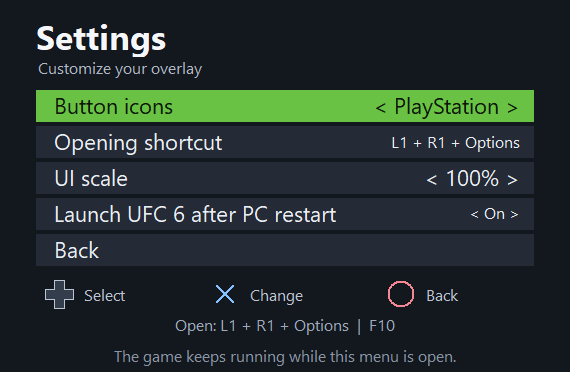
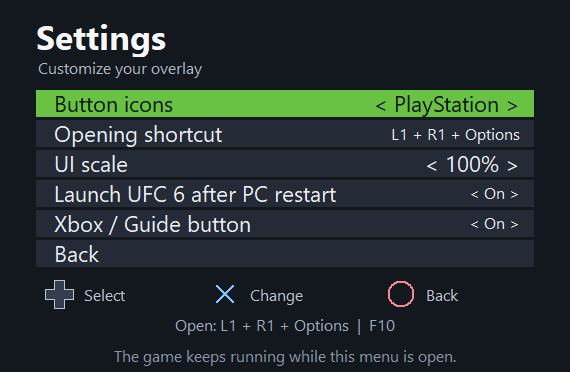
Add saved Xbox Guide button opening preference

Changed region(s): [[0.0596, 0.2366, 0.9544, 0.621], [0.8351, 0.5618, 0.9246, 0.621], [0.0895, 0.6505, 0.1789, 0.7097]]

diff --git a/src/quit_menu.c b/src/quit_menu.c
@@ -181,13 +181,14 @@ static void dpad_icon(HDC dc, int x, int y) {
     SelectObject(dc,old_pen); SelectObject(dc,old_brush); DeleteObject(pen); DeleteObject(brush);
 }
 static void save_settings(void) {
-    EnterCriticalSection(&lock); int ps=menu.playstation_icons,scale=menu_scale(&menu),auto_launch=menu_auto_launch(&menu);uint32_t chord=menu_shortcut(&menu); LeaveCriticalSection(&lock);
+    EnterCriticalSection(&lock); int ps=menu.playstation_icons,scale=menu_scale(&menu),auto_launch=menu_auto_launch(&menu),guide_enabled=menu_guide_enabled(&menu);uint32_t chord=menu_shortcut(&menu); LeaveCriticalSection(&lock);
     wchar_t value[24];swprintf(value,24,L"0x%08lx",(unsigned long)chord);
     BOOL saved=WritePrivateProfileStringW(L"Menu",L"ButtonIcons",ps?L"PlayStation":L"Xbox",settings_path);
     saved=WritePrivateProfileStringW(L"Menu",L"OpeningShortcut",value,settings_path)&&saved;
     swprintf(value,24,L"%d",scale);
     saved=WritePrivateProfileStringW(L"Menu",L"UIScale",value,settings_path)&&saved;
     saved=WritePrivateProfileStringW(L"Menu",L"AutoLaunchAfterRestart",auto_launch?L"1":L"0",settings_path)&&saved;
+    saved=WritePrivateProfileStringW(L"Menu",L"GuideButtonOpensMenu",guide_enabled?L"1":L"0",settings_path)&&saved;
     EnterCriticalSection(&lock); settings_save_failed=!saved; LeaveCriticalSection(&lock);
     log_line(saved ? "Overlay settings saved." : "Could not save overlay settings.");
 }
@@ -204,8 +205,8 @@ static void shortcut_label(uint32_t chord,int ps,wchar_t *out,size_t capacity) {
     }
 }
 static void row_geometry(int page,int index,int *top,int *height) {
-    *top=page==PAGE_MAIN?86+29*index+(index>=MAIN_REBOOT?10:0):page==PAGE_SETTINGS?90+36*index:100+56*index;
-    *height=page==PAGE_MAIN?27:page==PAGE_SETTINGS?32:50;
+    *top=page==PAGE_MAIN?86+29*index+(index>=MAIN_REBOOT?10:0):page==PAGE_SETTINGS?90+30*index:100+56*index;
+    *height=page==PAGE_MAIN?27:page==PAGE_SETTINGS?27:50;
 }
 static void draw_menu(HDC dc, RECT r) {
     HBRUSH bg = CreateSolidBrush(RGB(19, 23, 30));
@@ -222,7 +223,7 @@ static void draw_menu(HDC dc, RECT r) {
     RECT sub = {38, 57, r.right - 36, 84};
     text(dc,font_small,state.page==PAGE_SETTINGS?L"Customize your overlay":state.page==PAGE_RESTART?L"Close this session and relaunch through PORTHEON.":menu_power_page(&state)?(state.shutdown_countdown?L"You can still cancel before the countdown ends.":(state.page==PAGE_REBOOT?(menu_auto_launch(&state)?L"Game auto-launch: On. Change in Settings.":L"Game auto-launch: Off. Change in Settings."):L"Close the game and turn off this PC.")):L"What would you like to do?",sub,RGB(176,184,197),DT_LEFT);
     const wchar_t *main_labels[]={L"Resume",L"Take screenshot",L"Restart game",L"Settings",L"Quit game",L"Restart PC",L"Shut down PC"};
-    const wchar_t *setting_labels[]={L"Button icons",L"Opening shortcut",L"UI scale",L"Launch UFC 6 after PC restart",L"Back"};
+    const wchar_t *setting_labels[]={L"Button icons",L"Opening shortcut",L"UI scale",L"Launch UFC 6 after PC restart",L"Xbox / Guide button",L"Back"};
     const wchar_t *restart_labels[]={L"Cancel",L"Restart now"};
     const wchar_t *shutdown_labels[]={state.shutdown_countdown?L"Cancel":L"Cancel",state.page==PAGE_REBOOT?L"Hold to restart PC":L"Hold to shut down"};
     for(int i=0;i<menu_rows(&state);++i) {
@@ -231,7 +232,7 @@ static void draw_menu(HDC dc, RECT r) {
         HBRUSH fill=CreateSolidBrush(i==selection?RGB(106,194,68):RGB(36,43,54));
         FillRect(dc, &row, fill); DeleteObject(fill);
         COLORREF color=i == selection ? RGB(11,24,7) : RGB(234,238,244);
-        row.left+=18;row.top+=state.page==PAGE_MAIN?-2:state.page==PAGE_SETTINGS?0:9;
+        row.left+=18;row.top+=(state.page==PAGE_MAIN||state.page==PAGE_SETTINGS)?-2:9;
         text(dc,font_body,state.page==PAGE_MAIN?main_labels[i]:state.page==PAGE_SETTINGS?setting_labels[i]:menu_power_page(&state)?shutdown_labels[i]:restart_labels[i],row,color,DT_LEFT);
         if(menu_power_page(&state)&&i==1&&state.shutdown_holding){
             wchar_t progress[40];swprintf(progress,40,L"%.1f / 3 s",state.shutdown_progress/1000.0);
@@ -243,6 +244,10 @@ static void draw_menu(HDC dc, RECT r) {
             RECT value={350,row.top+4,r.right-50,row.bottom};
             const wchar_t *label=state.page==PAGE_MAIN?(menu_auto_launch(&state)?L"Auto-launch: On":L"Auto-launch: Off"):(menu_auto_launch(&state)?L"< On >":L"< Off >");
             text(dc,font_small,label,value,color,DT_RIGHT|DT_SINGLELINE);
+        }
+        if(state.page==PAGE_SETTINGS&&i==SETTING_GUIDE){
+            RECT value={350,row.top+4,r.right-50,row.bottom};
+            text(dc,font_small,menu_guide_enabled(&state)?L"< On >":L"< Off >",value,color,DT_RIGHT|DT_SINGLELINE);
         }
         if(state.page==PAGE_SETTINGS&&i==SETTING_ICONS) {
             RECT value={300,row.top,r.right-50,row.bottom};
@@ -272,7 +277,7 @@ static void draw_menu(HDC dc, RECT r) {
         dpad_icon(dc,44,y);
         RECT select={84,y+5,190,y+28};text(dc,font_small,L"Select",select,RGB(187,196,209),DT_LEFT);
         button_icon(dc,210,y,0,ps);
-        const wchar_t *confirm=state.page==PAGE_SETTINGS?(selection==SETTING_SHORTCUT?L"Record":(selection==SETTING_ICONS||selection==SETTING_AUTO_LAUNCH)?L"Change":selection==SETTING_SCALE?L"Reset":L"Confirm"):menu_power_page(&state)?(state.shutdown_countdown?L"Cancel":selection==1?L"Hold 3s":L"Confirm"):L"Confirm";
+        const wchar_t *confirm=state.page==PAGE_SETTINGS?(selection==SETTING_SHORTCUT?L"Record":(selection==SETTING_ICONS||selection==SETTING_AUTO_LAUNCH||selection==SETTING_GUIDE)?L"Change":selection==SETTING_SCALE?L"Reset":L"Confirm"):menu_power_page(&state)?(state.shutdown_countdown?L"Cancel":selection==1?L"Hold 3s":L"Confirm"):L"Confirm";
         RECT yes={250,y+5,367,y+28};text(dc,font_small,confirm,yes,RGB(187,196,209),DT_LEFT);
         button_icon(dc,386,y,1,ps);
         RECT back={426,y+5,530,y+28};text(dc,font_small,state.page==PAGE_MAIN?L"Resume":L"Back",back,RGB(187,196,209),DT_LEFT);
@@ -281,6 +286,7 @@ static void draw_menu(HDC dc, RECT r) {
             swprintf(line,130,L"Open: %ls  |  F10",chord);
             if(selection==SETTING_SCALE)wcscpy(line,L"Left/right: resize   |   Confirm: reset to 100%");
             if(selection==SETTING_AUTO_LAUNCH)wcscpy(line,L"Reopen UFC 6 after PC restart and Windows sign-in.");
+            if(selection==SETTING_GUIDE)wcscpy(line,L"Use the Xbox / Guide button to open or close this menu.");
             RECT shortcut={30,314,r.right-30,336};text(dc,font_small,line,shortcut,RGB(158,170,188),DT_CENTER|DT_SINGLELINE|DT_END_ELLIPSIS);
         }
     }
@@ -413,7 +419,8 @@ static void tick(void) {
     int active = foreground();
     int guide = guide_down();
     int f10 = (GetAsyncKeyState(VK_F10) & 0x8000) != 0;
-    if (active && ((guide && !guide_was_down) || (f10 && !f10_was_down))) toggle_menu();
+    EnterCriticalSection(&lock);int hotkey=menu_hotkey_pressed(&menu,guide,guide_was_down,f10,f10_was_down);LeaveCriticalSection(&lock);
+    if (active && hotkey) toggle_menu();
     guide_was_down = guide; f10_was_down = f10;
     EnterCriticalSection(&lock);
     uint64_t now = GetTickCount64();
@@ -490,6 +497,8 @@ static DWORD WINAPI worker(void *unused) {
     EnterCriticalSection(&lock);menu.ui_scale_percent=overlay_valid_scale(scale)?scale:MENU_SCALE_DEFAULT;LeaveCriticalSection(&lock);
     int auto_launch=(int)GetPrivateProfileIntW(L"Menu",L"AutoLaunchAfterRestart",1,settings_path);
     EnterCriticalSection(&lock);menu.disable_auto_launch=auto_launch==0;LeaveCriticalSection(&lock);
+    int guide_enabled=(int)GetPrivateProfileIntW(L"Menu",L"GuideButtonOpensMenu",1,settings_path);
+    EnterCriticalSection(&lock);menu.disable_guide=guide_enabled==0;LeaveCriticalSection(&lock);
     log_line("UFC6 quit menu loaded inside engine process.");
     if (!test_mode && !install_hooks()) return 0;
     while (!game_window) { EnumWindows(find_window, 0); Sleep(100); }
@@ -524,7 +533,7 @@ static DWORD WINAPI worker(void *unused) {
                 ShowWindow(overlay, SW_HIDE); log_line("Quit selected: posting WM_CLOSE to game window.");
                 PostMessageW(game_window, WM_CLOSE, 0, 0);
             }
-            else if(msg.wParam==MENU_STYLE_CHANGED||msg.wParam==MENU_SHORTCUT_CHANGED||msg.wParam==MENU_SCALE_CHANGED||msg.wParam==MENU_AUTO_LAUNCH_CHANGED)save_settings();
+            else if(msg.wParam==MENU_STYLE_CHANGED||msg.wParam==MENU_SHORTCUT_CHANGED||msg.wParam==MENU_SCALE_CHANGED||msg.wParam==MENU_AUTO_LAUNCH_CHANGED||msg.wParam==MENU_GUIDE_CHANGED)save_settings();
             else if(msg.wParam==MENU_SCREENSHOT)request_screenshot();
             else if(msg.wParam==MENU_RESTART) {
                 ShowWindow(overlay,SW_HIDE);
@@ -580,6 +589,7 @@ __declspec(dllexport) int MenuTestSnapshot(void) {
 __declspec(dllexport) uint32_t MenuTestShortcut(void){EnterCriticalSection(&lock);uint32_t result=menu_shortcut(&menu);LeaveCriticalSection(&lock);return result;}
 __declspec(dllexport) void MenuTestScreenshot(void){request_screenshot();}
 __declspec(dllexport) int MenuTestShutdownRemaining(void){EnterCriticalSection(&lock);int seconds=menu.shutdown_countdown?menu.shutdown_seconds:0;LeaveCriticalSection(&lock);return seconds;}
+__declspec(dllexport) int MenuTestGuideEnabled(void){EnterCriticalSection(&lock);int value=menu_guide_enabled(&menu);LeaveCriticalSection(&lock);return value;}
 __declspec(dllexport) int MenuTestAutoLaunch(void){EnterCriticalSection(&lock);int value=menu_auto_launch(&menu);LeaveCriticalSection(&lock);return value;}
 __declspec(dllexport) int MenuTestScale(void){EnterCriticalSection(&lock);int scale=menu_scale(&menu);LeaveCriticalSection(&lock);return scale;}
 #endif

diff --git a/src/menu_state.h b/src/menu_state.h
@@ -11,9 +11,9 @@ enum {
 };
 enum { PAGE_MAIN, PAGE_SETTINGS, PAGE_RESTART, PAGE_SHUTDOWN, PAGE_REBOOT };
 enum { MAIN_RESUME, MAIN_SCREENSHOT, MAIN_RESTART, MAIN_SETTINGS, MAIN_QUIT, MAIN_REBOOT, MAIN_SHUTDOWN, MAIN_COUNT };
-enum { SETTING_ICONS, SETTING_SHORTCUT, SETTING_SCALE, SETTING_AUTO_LAUNCH, SETTING_BACK, SETTING_COUNT };
+enum { SETTING_ICONS, SETTING_SHORTCUT, SETTING_SCALE, SETTING_AUTO_LAUNCH, SETTING_GUIDE, SETTING_BACK, SETTING_COUNT };
 enum { MENU_NONE, MENU_OPEN, MENU_RESUME, MENU_QUIT, MENU_CHANGED,
-       MENU_STYLE_CHANGED, MENU_SHORTCUT_CHANGED, MENU_SCREENSHOT, MENU_RESTART, MENU_SHUTDOWN, MENU_SCALE_CHANGED, MENU_REBOOT, MENU_AUTO_LAUNCH_CHANGED };
+       MENU_STYLE_CHANGED, MENU_SHORTCUT_CHANGED, MENU_SCREENSHOT, MENU_RESTART, MENU_SHUTDOWN, MENU_SCALE_CHANGED, MENU_REBOOT, MENU_AUTO_LAUNCH_CHANGED, MENU_GUIDE_CHANGED };
 
 typedef struct {
     int visible,selection,armed,chord_latched,draining;
@@ -25,11 +25,16 @@ typedef struct {
     uint64_t shutdown_hold_since,shutdown_countdown_since;
     int ui_scale_percent;
     int disable_auto_launch;
+    int disable_guide;
 } MenuState;
 
 static int menu_power_page(const MenuState *s){return s->page==PAGE_SHUTDOWN||s->page==PAGE_REBOOT;}
 static int menu_power_selection(const MenuState *s){return s->page==PAGE_REBOOT?MAIN_REBOOT:MAIN_SHUTDOWN;}
 static int menu_auto_launch(const MenuState *s){return !s->disable_auto_launch;}
+static int menu_guide_enabled(const MenuState *s){return !s->disable_guide;}
+static int menu_hotkey_pressed(const MenuState *s,int guide,int was_guide,int f10,int was_f10){
+    return (menu_guide_enabled(s)&&guide&&!was_guide)||(f10&&!was_f10);
+}
 
 static unsigned menu_button_count(uint32_t mask) {
     unsigned count=0;for(;mask;mask&=mask-1)++count;return count;
@@ -123,6 +128,9 @@ static int menu_button(MenuState *s,uint32_t button,int down) {
         return MENU_CHANGED;
     }
     if(s->page==PAGE_SETTINGS) {
+        if(s->selection==SETTING_GUIDE&&(button==PAD_LEFT||button==PAD_RIGHT||button==PAD_A)){
+            s->disable_guide=!s->disable_guide;return MENU_GUIDE_CHANGED;
+        }
         if(s->selection==SETTING_AUTO_LAUNCH&&(button==PAD_LEFT||button==PAD_RIGHT||button==PAD_A)){
             s->disable_auto_launch=!s->disable_auto_launch;return MENU_AUTO_LAUNCH_CHANGED;
         }

diff --git a/tests/icon_preview.py b/tests/icon_preview.py
@@ -15,6 +15,8 @@ parser.add_argument("--reboot",action="store_true")
 parser.add_argument("--auto-launch",action="store_true")
 parser.add_argument("--reload-auto-off",action="store_true")
 parser.add_argument("--scale",action="store_true")
+parser.add_argument("--guide",action="store_true")
+parser.add_argument("--reload-guide-off",action="store_true")
 args=parser.parse_args()
 folder=args.folder.resolve()
 if args.reset:
@@ -78,7 +80,21 @@ try:
     else:
         dll.MenuTestToggle();pump(.3)
     assert dll.MenuTestSnapshot()&0x100
-    if args.auto_launch or args.reload_auto_off:
+    if args.guide or args.reload_guide_off:
+        assert dll.MenuTestGuideEnabled()==(0 if args.reload_guide_off else 1)
+        for _ in range(3):press(0x40)
+        press(0x4000)
+        for _ in range(4):press(0x40)
+        assert dll.MenuTestSnapshot()&0xf==4
+        render("guide-off-reloaded.png" if args.reload_guide_off else "guide-on.png")
+        if not args.reload_guide_off:
+            press(0x4000);assert dll.MenuTestGuideEnabled()==0
+            render("guide-off.png")
+            press(0x80);assert dll.MenuTestGuideEnabled()==1
+            press(0x20);assert dll.MenuTestGuideEnabled()==0
+            assert "GuideButtonOpensMenu=0" in (folder/"ufc6-quit-menu.test.ini").read_text()
+        print("PASS: Guide setting defaults On, toggles and saves Off." if not args.reload_guide_off else "PASS: fresh process loaded Guide Off and rendered the saved setting.")
+    elif args.auto_launch or args.reload_auto_off:
         assert dll.MenuTestAutoLaunch()==(0 if args.reload_auto_off else 1)
         render("main-auto-off.png" if args.reload_auto_off else "main-auto-on.png")
         if not args.reload_auto_off:

diff --git a/tests/menu_state_test.c b/tests/menu_state_test.c
@@ -126,6 +126,21 @@ int main(void) {
         int aspect=(int)(width*372)-(int)(height*570);assert(aspect>=-1140&&aspect<=1140);
     }
     overlay_extent(300,32,32,&width,&height);assert(!width&&!height);
-    puts("PASS: menu safeguards, UI scaling bounds/reset/persistence, and fitting from 320x240 to 4K.");
+    s=(MenuState){.visible=1,.armed=1,.page=PAGE_SETTINGS,.selection=SETTING_GUIDE};
+    assert(menu_guide_enabled(&s));
+    assert(menu_hotkey_pressed(&s,1,0,0,0));
+    assert(!menu_hotkey_pressed(&s,1,1,0,0));
+    assert(menu_button(&s,PAD_A,1)==MENU_GUIDE_CHANGED&&!menu_guide_enabled(&s));
+    assert(!menu_hotkey_pressed(&s,1,0,0,0));
+    assert(menu_hotkey_pressed(&s,1,0,1,0)); /* F10 remains available with Guide off. */
+    assert(!menu_hotkey_pressed(&s,0,0,1,1));
+    assert(menu_button(&s,PAD_LEFT,1)==MENU_GUIDE_CHANGED&&menu_guide_enabled(&s));
+    assert(!menu_hotkey_pressed(&s,1,1,0,0)); /* Enabling while held requires a new press. */
+    assert(menu_hotkey_pressed(&s,1,0,0,0));
+    assert(menu_button(&s,PAD_RIGHT,1)==MENU_GUIDE_CHANGED&&!menu_guide_enabled(&s));
+    menu_close(&s,MENU_RESUME);menu_show(&s);assert(!menu_guide_enabled(&s));
+    s=(MenuState){.disable_guide=1};
+    menu_tick(&s,OPEN_CHORD,1000,1);assert(menu_tick(&s,OPEN_CHORD,1800,1)==MENU_OPEN);
+    puts("PASS: menu safeguards, UI scaling, Guide default/toggle/edge behavior and independent F10/chord access.");
     return 0;
 }

diff --git a/installer/SelfTests.cs b/installer/SelfTests.cs
@@ -23,7 +23,7 @@ namespace UFC6OverlaySetup {
                 Assert(Manager.Normalize(Directory.GetParent(folder).FullName) == folder,"Game root must resolve to bin.");
                 Assert(manager.Inspect(folder).Supported,"Fixture engine must be supported.");
                 string ini = Path.Combine(folder,"ufc6-quit-menu.ini"), screenshot = Path.Combine(folder,"existing-screenshot.png");
-                File.WriteAllText(ini,"[Menu]\nUIScale=175\nAutoLaunchAfterRestart=0\n"); File.WriteAllBytes(screenshot,Bytes("existing image"));
+                File.WriteAllText(ini,"[Menu]\nUIScale=175\nAutoLaunchAfterRestart=0\nGuideButtonOpensMenu=0\n"); File.WriteAllBytes(screenshot,Bytes("existing image"));
                 string settings = File.ReadAllText(ini);
                 manager.Apply(folder,false); Assert(manager.Inspect(folder).Current == 4,"Installation must match every release hash.");
                 manager.Apply(folder,false); Assert(!Directory.GetFiles(folder,"*.bak").Any(),"Idempotent install must not create backups.");

diff --git a/tests/test_installer.py b/tests/test_installer.py
@@ -133,7 +133,7 @@ class InstallerTests(unittest.TestCase):
 
     def test_settings_survive_install_and_remove(self):
         settings=self.bin/"ufc6-quit-menu.ini"
-        contents=b"[Menu]\nButtonIcons=PlayStation\nOpeningShortcut=0x6\nUIScale=175\nAutoLaunchAfterRestart=0\n"
+        contents=b"[Menu]\nButtonIcons=PlayStation\nOpeningShortcut=0x6\nUIScale=175\nAutoLaunchAfterRestart=0\nGuideButtonOpensMenu=0\n"
         settings.write_bytes(contents)
         self.run_action("install");self.run_action("remove")
         self.assertEqual(settings.read_bytes(),contents)

diff --git a/installer/AssemblyInfo.cs b/installer/AssemblyInfo.cs
@@ -3,5 +3,5 @@ using System.Reflection;
 [assembly: AssemblyTitle("UFC 6 Actions Overlay Setup")]
 [assembly: AssemblyProduct("UFC 6 Actions Overlay")]
 [assembly: AssemblyDescription("Install, update, or remove the UFC 6 Actions Overlay for the supported PORTHEON engine.")]
-[assembly: AssemblyVersion("0.8.2.0")]
-[assembly: AssemblyFileVersion("0.8.2.0")]
+[assembly: AssemblyVersion("0.8.3.0")]
+[assembly: AssemblyFileVersion("0.8.3.0")]

diff --git a/README.md b/README.md
@@ -48,7 +48,7 @@ The two game-background images are real game-window captures. The isolated page 
 - Default opening shortcut: hold **LB + RB + Menu/Start** for **0.8 seconds**, then release. On PlayStation this is **L1 + R1 + Options**.
 - **D-pad up/down** selects; **A / cross** confirms; **B / circle** goes back. Back resumes the game from the main menu.
 - **F10** always opens or closes the overlay, including while recording a new shortcut.
-- The Xbox/Guide button is also attempted through an optional XInput extension. Windows/Steam and controller drivers may intercept it; no system settings are changed.
+- The Xbox/Guide button opens or closes the overlay by default. Disable it under **Settings → Xbox / Guide button** if you use that button for something else. Windows/Steam and controller drivers may intercept it; no system settings are changed.
 
 Select **Settings** to open the second settings box:
 
@@ -56,6 +56,7 @@ Select **Settings** to open the second settings box:
 - **Opening shortcut:** confirm starts recording. Release the confirmation button, hold a combination of **2–4 digital buttons** for about half a second, then release to save it. Supported buttons are shoulders, stick clicks, D-pad, face buttons, and Menu/Options. Analog triggers and Guide are not recorded. B/circle alone cancels recording; F10 closes the overlay without changing the shortcut.
 - **UI scale:** left/right changes the whole overlay from **50% to 300%**, in **25% steps**. Confirm resets it to **100%**. The overlay stays centred and automatically shrinks to fit smaller game windows with a margin.
 - **Launch UFC 6 after PC restart:** On by default. Confirm or left/right toggles whether Restart PC reopens UFC 6 at your next Windows sign-in. The Restart PC row and its confirmation show the current On/Off status; the confirmation also points to Settings.
+- **Xbox / Guide button:** On by default. Confirm or left/right toggles opening/closing this overlay with Guide. The controller shortcut and F10 stay available when Off. The preference saves automatically; enabling it while Guide is already held requires releasing and pressing again.
 - **Back:** returns to the main menu.
 
 Preferences save automatically to `bin/ufc6-quit-menu.ini` and are preserved when upgrading. A custom shortcut uses the same 0.8-second hold time. The INI can also be edited while the game is closed:
@@ -66,6 +67,7 @@ ButtonIcons=PlayStation
 OpeningShortcut=0x00000c08
 UIScale=100
 AutoLaunchAfterRestart=1
+GuideButtonOpensMenu=1
 ```
 
 `Xbox` is the other icon style. The hexadecimal value above is the default shoulder/Menu combination; use the recorder to choose a different combination.
@@ -106,7 +108,7 @@ Verification uses the test helper with power APIs compiled out and a file in pla
 
 ## Install, upgrade, and remove
 
-Download **`UFC6-Actions-Overlay-Setup-0.8.2.exe`** and double-click it. The setup EXE contains all overlay components; it can run by itself without extracting the source ZIP, installing Python, or compiling anything. It uses the Windows .NET Framework 4.x already present on standard Windows 10/11 installations.
+Download **`UFC6-Actions-Overlay-Setup-0.8.3.exe`** and double-click it. The setup EXE contains all overlay components; it can run by itself without extracting the source ZIP, installing Python, or compiling anything. It uses the Windows .NET Framework 4.x already present on standard Windows 10/11 installations.
 
 1. Close UFC 6 and its launcher.
 2. Click **Browse** and select the UFC 6 game folder or its **bin** folder containing **`UFC 6.exe`**.
@@ -118,7 +120,7 @@ To uninstall, run the same setup EXE, choose the same folder, and click **Remove
 
 Version 0.8.2 fixes startup when Windows prefers system DLLs, which can bypass an app-local `version.dll`. The bridge uses the engine's existing non-system runtime import and enables the Vulkan layer only inside the game process. It preserves the Windows security policy, checks all required overlay files before enabling the layer, and does not register a system-wide Vulkan layer. The installer accepts only the verified original runtime SHA-256, and rejects unknown replacements.
 
-The full **`UFC6-Actions-Overlay-0.8.2.zip`** also contains `UFC6ActionsOverlaySetup.exe`, the prebuilt files in `dist`, all source, build scripts, and licenses.
+The full **`UFC6-Actions-Overlay-0.8.3.zip`** also contains `UFC6ActionsOverlaySetup.exe`, the prebuilt files in `dist`, all source, build scripts, and licenses.
 
 The Python command-line manager remains available for development and scripting:
 

diff --git a/RELEASE-NOTES.md b/RELEASE-NOTES.md
@@ -1,8 +1,12 @@
-# UFC 6 Actions Overlay v0.8.2
+# UFC 6 Actions Overlay v0.8.3
 
-Fixes the overlay not loading when Windows prefers system DLLs, including the launch behavior observed after a PORTHEON update. The supported engine is still `3309ab23f`; its compatibility checks remain in place.
+Adds **Settings → Xbox / Guide button**, a saved On/Off control for opening or closing the overlay with the Xbox/Guide button. It defaults to On, preserving existing behavior. Confirm or left/right changes it. The controller combination and F10 remain available when Off. Re-enabling while Guide is held requires a fresh press. Settings now fit six rows inside the same scalable panel.
 
-## Startup repair
+Tests cover default On, toggling, press-edge handling, independent F10/chord access, actual rendering, persistence across a fresh process, and preservation during installation/removal. No cheat controls are added in this release.
+
+The v0.8.2 startup fix is retained. The supported engine remains `3309ab23f`; its compatibility checks stay in place.
+
+## Startup repair retained from v0.8.2
 
 - A non-system threading-runtime bridge enables the Vulkan layer inside the game process. The layer explicitly loads the app-local overlay core beside Windows' system `version.dll`.
 - All 135 runtime exports forward to the user's verified original. Setup preserves its bytes as `ufc6_pthread_original.dll`; uninstall restores it. The original runtime is never distributed. Keep that copy and use this version's setup to uninstall.
@@ -15,8 +19,8 @@ The game-action UI is unchanged from v0.8.1. Restart and post-reboot auto-launch
 
 ## Downloads
 
-- **UFC6-Actions-Overlay-Setup-0.8.2.exe** — recommended. One file with all overlay components built in. No Python or compiler required.
-- **UFC6-Actions-Overlay-0.8.2.zip** — setup EXE, prebuilt mod files, complete project source, build scripts, tests, and licenses.
+- **UFC6-Actions-Overlay-Setup-0.8.3.exe** — recommended. One file with all overlay components built in. No Python or compiler required.
+- **UFC6-Actions-Overlay-0.8.3.zip** — setup EXE, prebuilt mod files, complete project source, build scripts, tests, and licenses.
 - **Overlay-Screenshots-0.8.1.zip** — 18 updated images, including the main menu and Settings over the actual game menu.
 - **SHA256SUMS.txt** — checksums for these download files.
 
